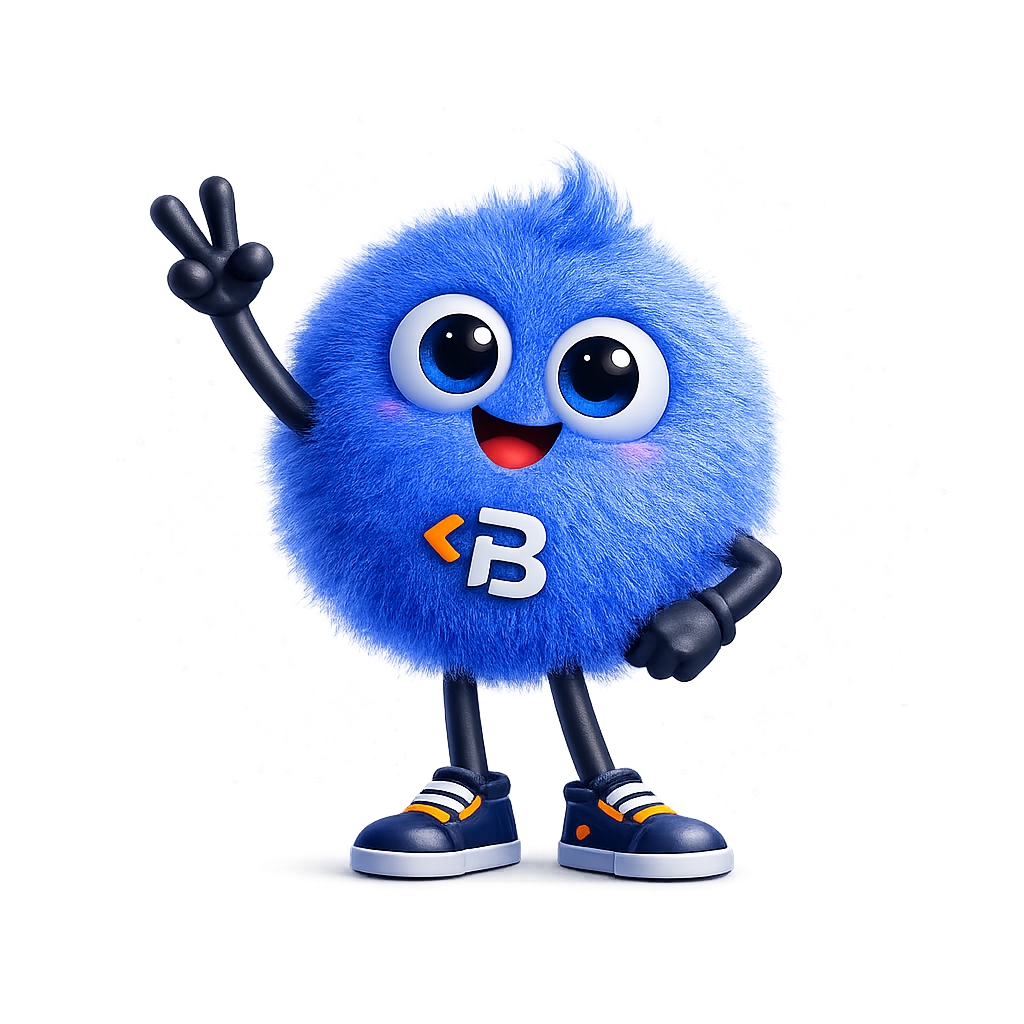
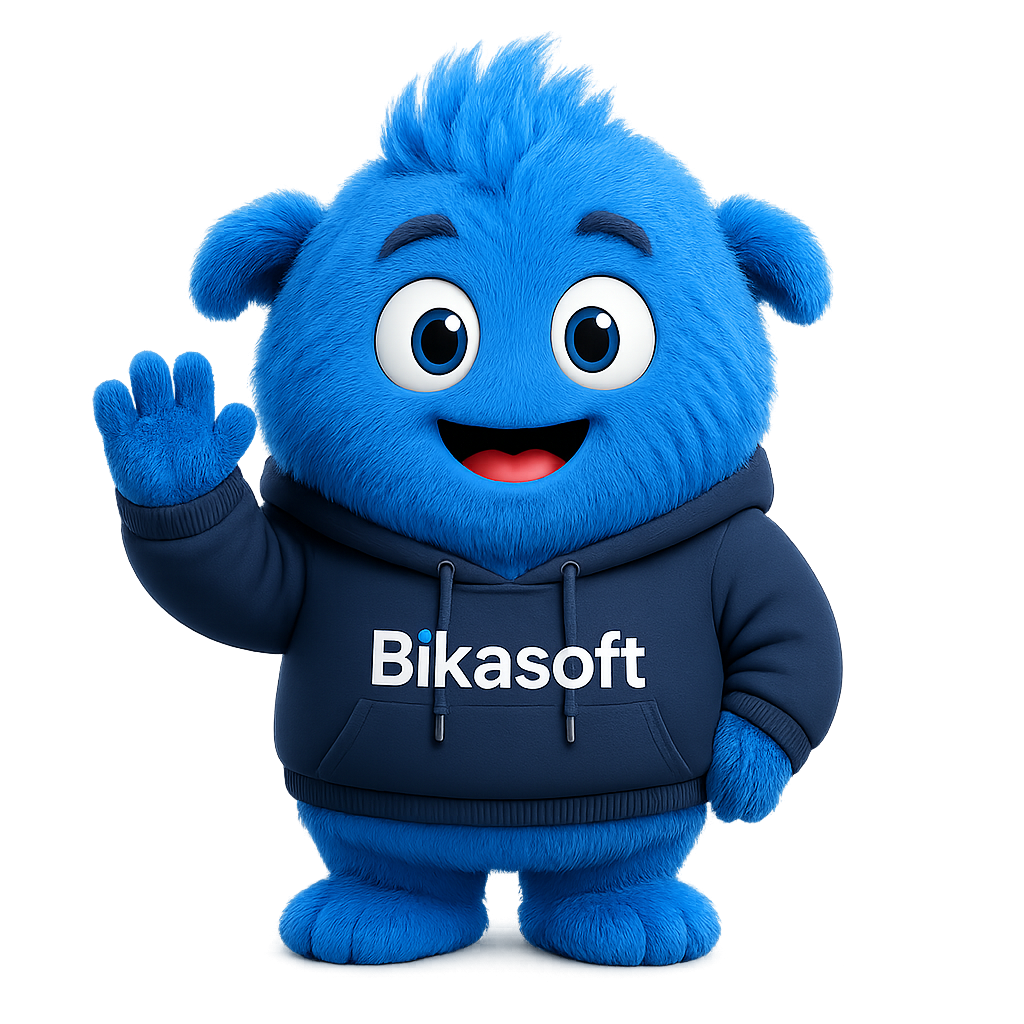
Website update

diff --git a/index.html b/index.html
@@ -1247,6 +1247,81 @@
         font-size: 20px;
       }
     }
+
+    /* BIKA SHOWCASE SECTION */
+    .bika-showcase-container {
+      display: grid;
+      grid-template-columns: 20% 80%;
+      align-items: center;
+      gap: 24px;
+      padding: 48px;
+      position: relative;
+      overflow: hidden;
+    }
+    .bika-showcase-text {
+      position: relative;
+      z-index: 2;
+    }
+    .bika-showcase-text h2 {
+      font-size: clamp(32px, 4vw, 52px);
+      line-height: 1.1;
+    }
+    .bika-showcase-visual {
+      position: relative;
+      display: flex;
+      justify-content: center;
+      align-items: center;
+      min-height: 380px;
+      z-index: 2;
+    }
+    .bika-glow {
+      position: absolute;
+      width: 520px;
+      height: 520px;
+      background: radial-gradient(circle, rgba(0, 119, 255, 0.25), transparent 60%);
+      border-radius: 50%;
+      filter: blur(40px);
+      animation: pulseGlow 4s ease-in-out infinite alternate;
+    }
+    .bika-floating-img {
+      width: 100%;
+      max-width: 650px;
+      height: auto;
+      position: relative;
+      z-index: 2;
+      filter: drop-shadow(0 25px 40px rgba(0,0,0,0.5));
+      animation: floatBika 5s ease-in-out infinite;
+    }
+    [data-theme="light"] .bika-floating-img {
+      filter: drop-shadow(0 25px 40px rgba(0,0,0,0.25));
+    }
+    @keyframes floatBika {
+      0%, 100% { transform: translateY(0); }
+      50% { transform: translateY(-20px); }
+    }
+    @keyframes pulseGlow {
+      0% { transform: scale(0.8); opacity: 0.4; }
+      100% { transform: scale(1.1); opacity: 0.8; }
+    }
+    @media (max-width: 980px) {
+      .bika-showcase-container {
+        grid-template-columns: 1fr;
+        padding: 48px 32px;
+        text-align: center;
+        gap: 40px;
+      }
+      .bika-showcase-visual {
+        min-height: auto;
+      }
+    }
+    @media (max-width: 640px) {
+      .bika-showcase-container {
+        padding: 40px 20px;
+      }
+      .bika-floating-img {
+        max-width: 364px;
+      }
+    }
     /* INDUSTRIES SECTION */
     .industries-section {
       position: relative;